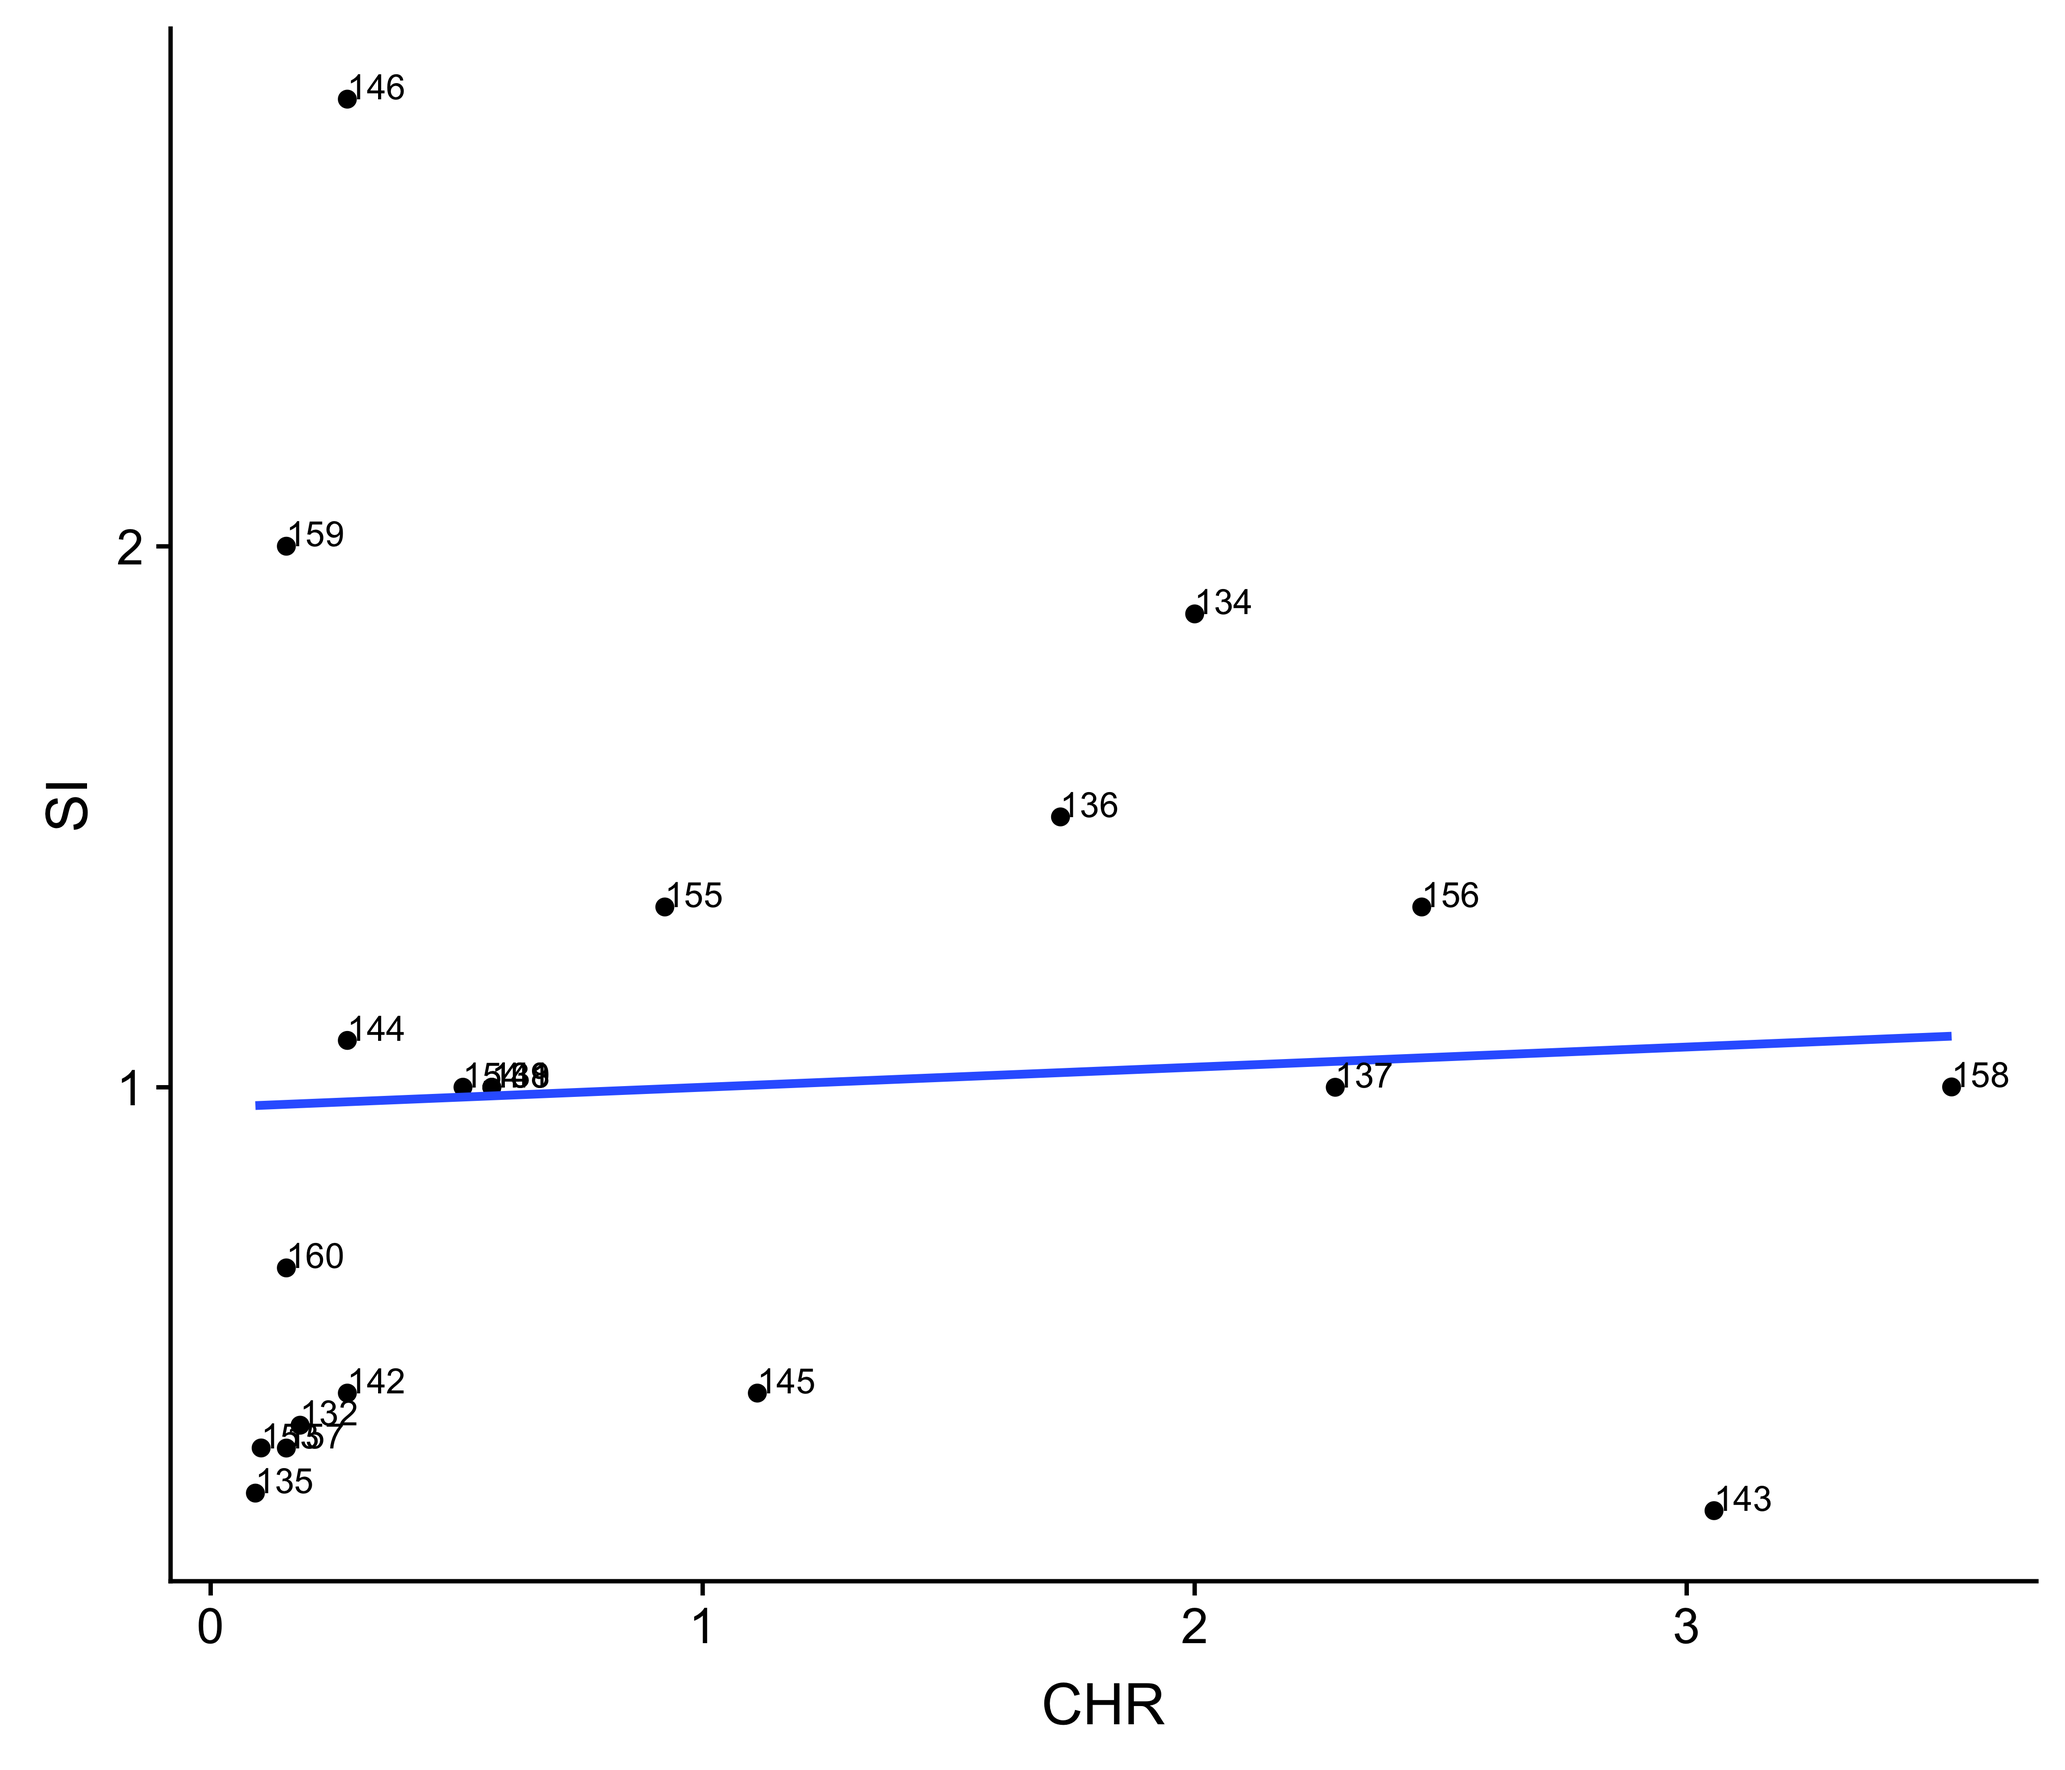
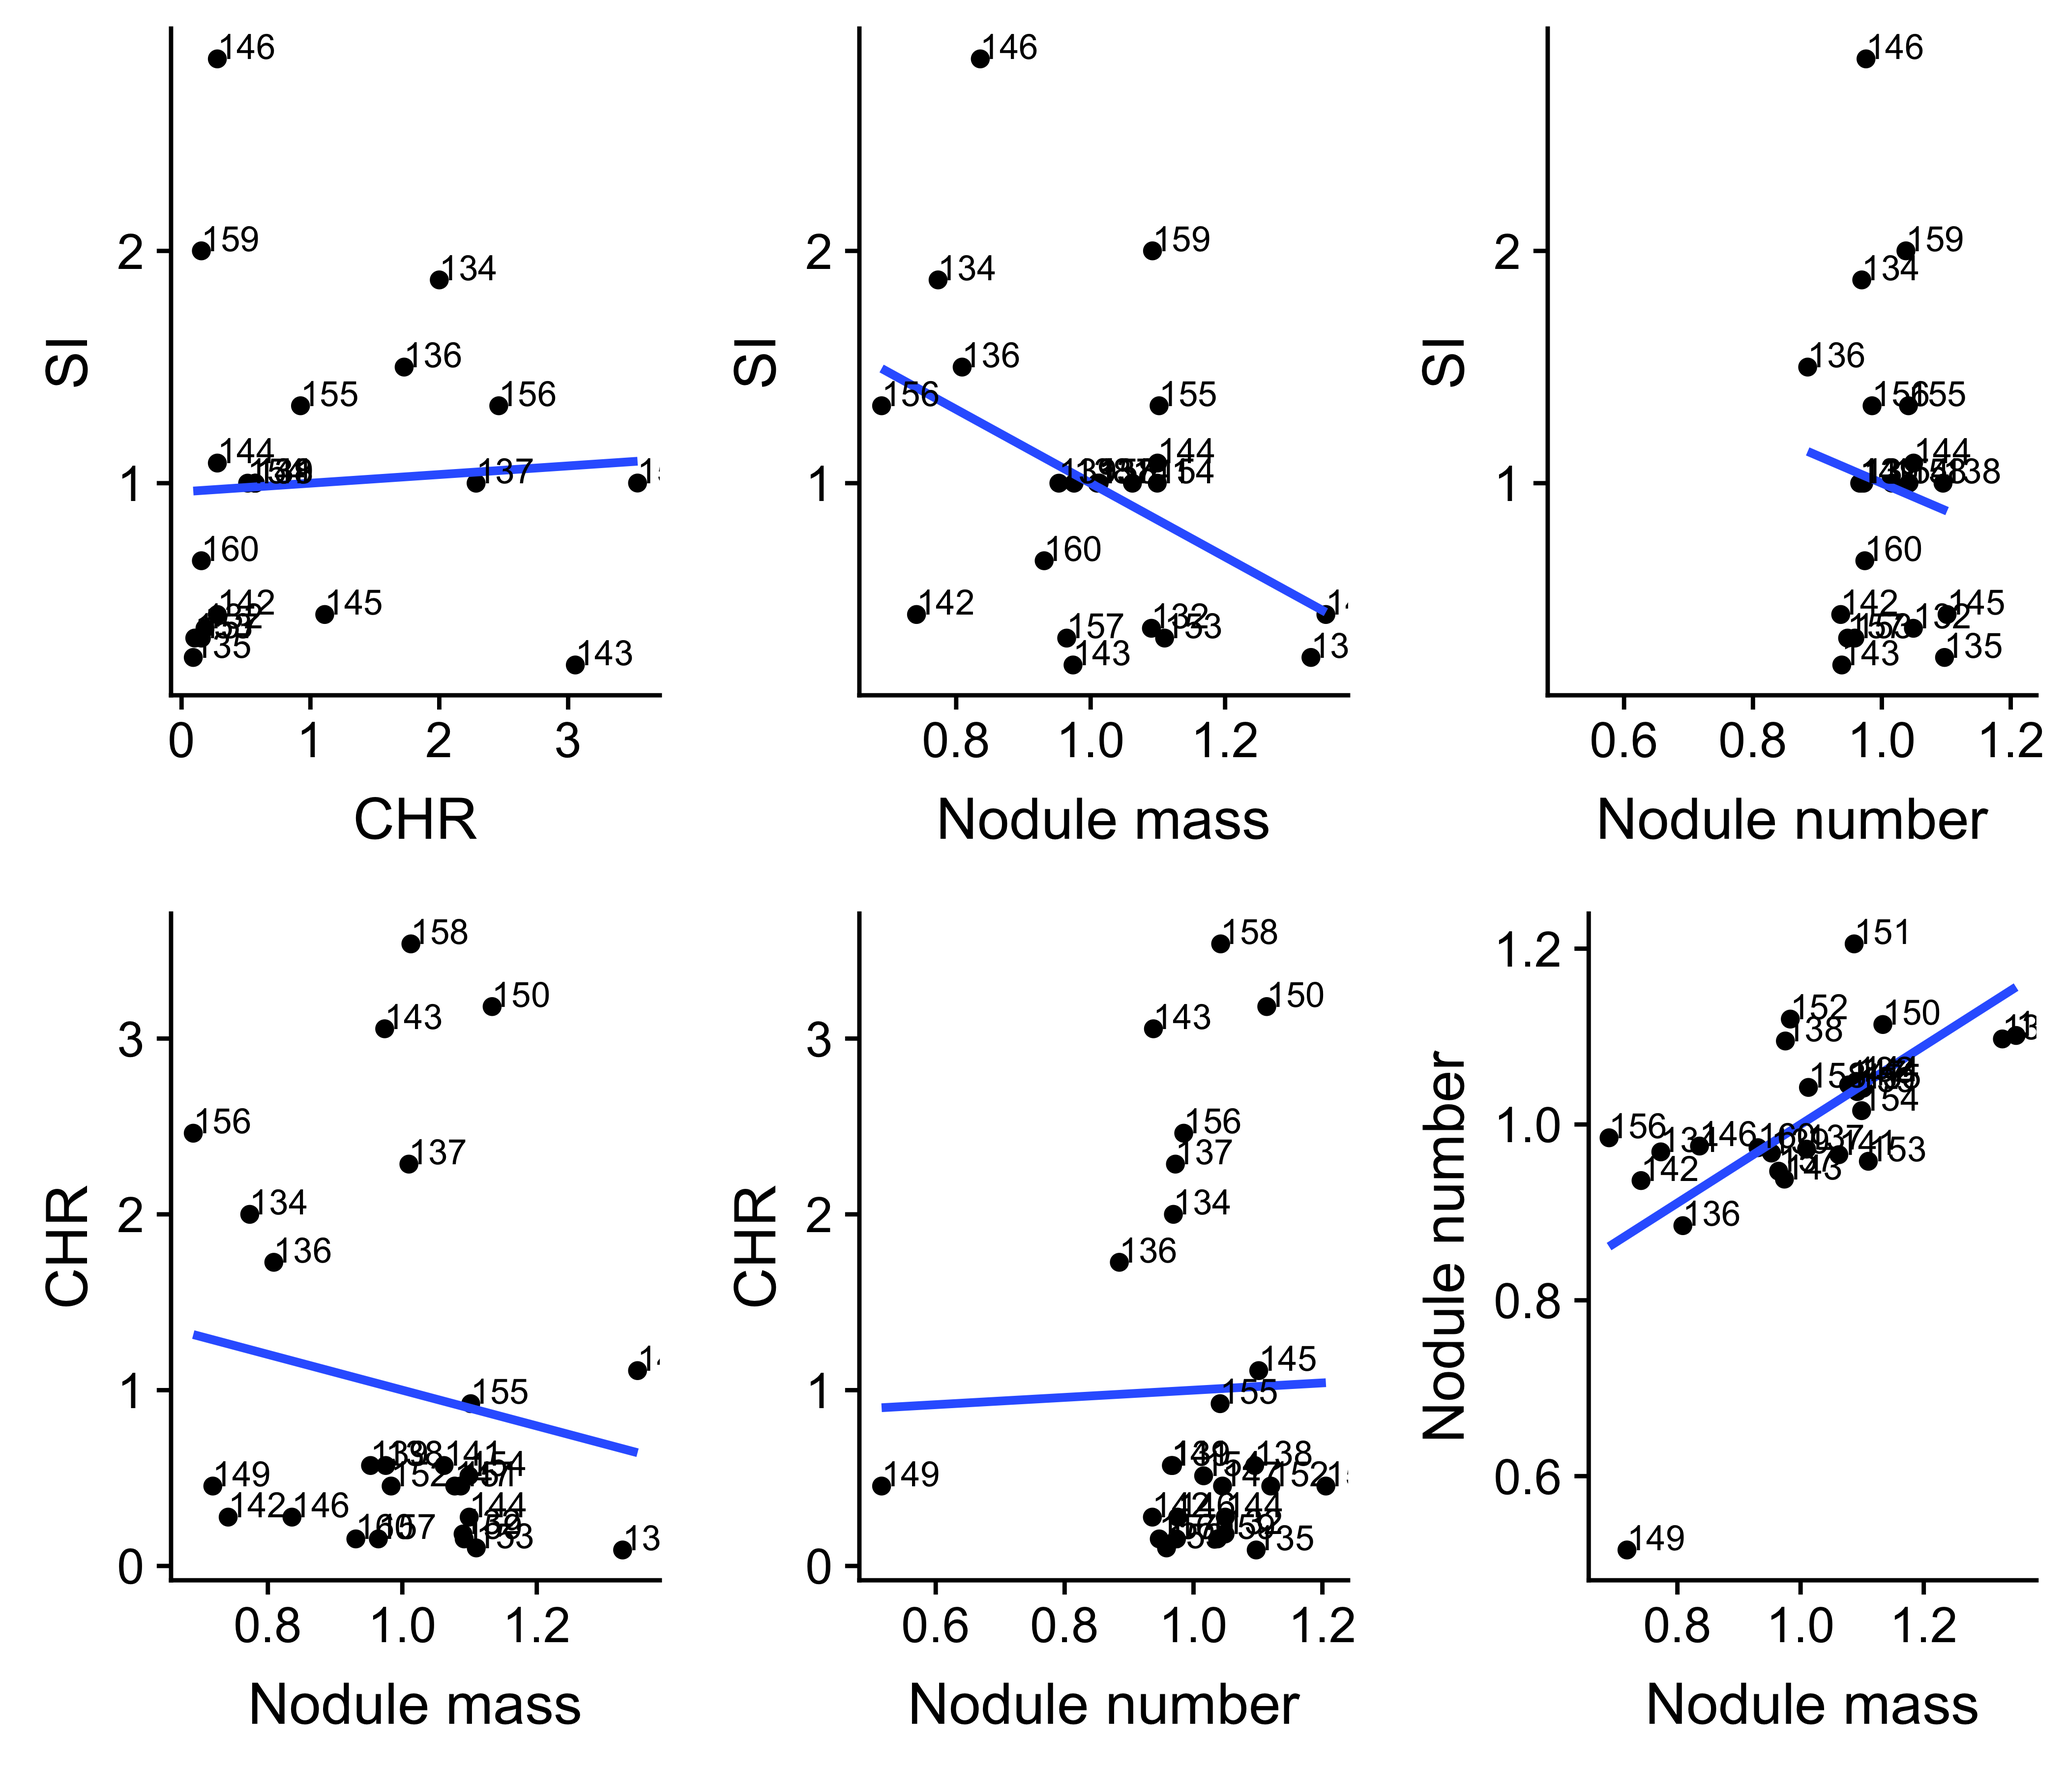
Commit from RStudio

diff --git a/README.md b/README.md
@@ -158,7 +158,7 @@ df.means <- cbind(df.means, tmp[,3:7])
 tmp <- data_sym %>% group_by(Strain) %>% summarize(CHR = mean(`CHR local abundance`), SI = mean(`SI local abunance`))
 df.means <- merge(df.means, tmp, by="Strain")
 
-#Standardize trait and fitness values for each population separately
+#Calculate means and SDs for each fitness/trait measure for each population separately
 tmp <- df.means %>% group_by(Population) %>% summarize(
   pop_mean_tot_nod=mean(tot_nod_lsmean), 
   pop_sd_tot_nod=sd(tot_nod_lsmean),
@@ -509,18 +509,12 @@ After standardizing relative growth within each population and relativizing all 
 plot_grid(p5,p6,p7,p8, labels=c(S5, S6, S7, S8), hjust = c(-1.7, -1, -1, -1), scale = 0.9)
 ```
 
-    ## Warning: Removed 5 rows containing non-finite values (stat_smooth).
-
-    ## Warning: Removed 5 rows containing missing values (geom_point).
-
-    ## Warning: Removed 5 rows containing missing values (geom_text).
-
 ![](README_files/figure-markdown_github/Visualize%20selection%20gradients,%20using%20RGR-1.png)
 
 Selection on symbiont quality, measured as plant biomass
 ========================================================
 
-Performing the same analysis but measuring symbiont quality using plant biomass, in the more traditional fashion, shows only one statistically significant selection gradient: the regression of nodule number on plant biomass. And the relationship is positive, suggesting fitness alignment, not conflict, between partners.
+Performing the same analysis but measuring symbiont quality using plant biomass, in the more traditional fashion, shows only one statistically significant selection gradient: the regression of nodule number on plant biomass. And the relationship is positive, suggesting fitness alignment, not conflict, between partners. Solid lines show significant selection gradients. Dashed lines show non-signficiant selection gradients.
 
 ``` r
 plot_grid(p1,p2,p3,p4, labels=c(S1, S2, S3, S4), hjust = c(-0.8, -1, -1, -1), scale=0.9)
@@ -564,12 +558,7 @@ p9 <- ggplot(data=df.means, aes(y=SI_std, x=CHR_std))+
       xlab("CHR")+
       ylab("SI")+
       geom_text(aes(label=Strain),hjust=0, vjust=0, size=3)
-p9
-```
 
-![](README_files/figure-markdown_github/Correlations%20among%20fitness%20proxies,%20-1.png)
-
-``` r
 lm10 <- lm(SI_std~nod_mass_std, data=df.means) #Model
 summary(lm10)
 ```
@@ -601,12 +590,7 @@ p10 <- ggplot(data=df.means, aes(y=SI_std, x=nod_mass_std))+
       xlab("Nodule mass")+
       ylab("SI")+
       geom_text(aes(label=Strain),hjust=0, vjust=0, size=3)
-p10
-```
 
-![](README_files/figure-markdown_github/Correlations%20among%20fitness%20proxies,%20-2.png)
-
-``` r
 lm11 <- lm(SI_std~tot_nod_std, data=df.means) #Model
 summary(lm11)
 ```
@@ -636,12 +620,7 @@ p11 <- ggplot(data=df.means, aes(y=SI_std, x=tot_nod_std))+
       xlab("Nodule number")+
       ylab("SI")+
       geom_text(aes(label=Strain),hjust=0, vjust=0, size=3)
-p11
-```
 
-![](README_files/figure-markdown_github/Correlations%20among%20fitness%20proxies,%20-3.png)
-
-``` r
 lm12 <- lm(CHR_std~nod_mass_std, data=df.means) #Model
 summary(lm12)
 ```
@@ -670,12 +649,7 @@ p12 <- ggplot(data=df.means, aes(y=CHR_std, x=nod_mass_std))+
       xlab("Nodule mass")+
       ylab("CHR")+
       geom_text(aes(label=Strain),hjust=0, vjust=0, size=3)
-p12
-```
 
-![](README_files/figure-markdown_github/Correlations%20among%20fitness%20proxies,%20-4.png)
-
-``` r
 lm13 <- lm(CHR_std~tot_nod_std, data=df.means) #Model
 summary(lm13)
 ```
@@ -704,12 +678,7 @@ p13 <- ggplot(data=df.means, aes(y=CHR_std, x=tot_nod_std))+
       xlab("Nodule number")+
       ylab("CHR")+
       geom_text(aes(label=Strain),hjust=0, vjust=0, size=3)
-p13
-```
 
-![](README_files/figure-markdown_github/Correlations%20among%20fitness%20proxies,%20-5.png)
-
-``` r
 lm14 <- lm(tot_nod_std~nod_mass_std, data=df.means) #Model
 summary(lm14)
 ```
@@ -745,7 +714,7 @@ p14 <- ggplot(data=df.means, aes(y=tot_nod_std, x=nod_mass_std))+
 plot_grid(p9, p10, p11, p12, p13, p14)
 ```
 
-![](README_files/figure-markdown_github/Correlations%20among%20fitness%20proxies,%20-6.png)
+![](README_files/figure-markdown_github/Correlations%20among%20fitness%20proxies,%20-1.png)
 
 ``` r
 #Corrlation between plant fitness proxies
@@ -783,4 +752,4 @@ p15 <- ggplot(data=df.means, aes(y=RGR_std, x=plant_biomass_std))+
 p15
 ```
 
-![](README_files/figure-markdown_github/Correlations%20among%20fitness%20proxies,%20-7.png)
+![](README_files/figure-markdown_github/Correlations%20among%20fitness%20proxies,%20-2.png)
